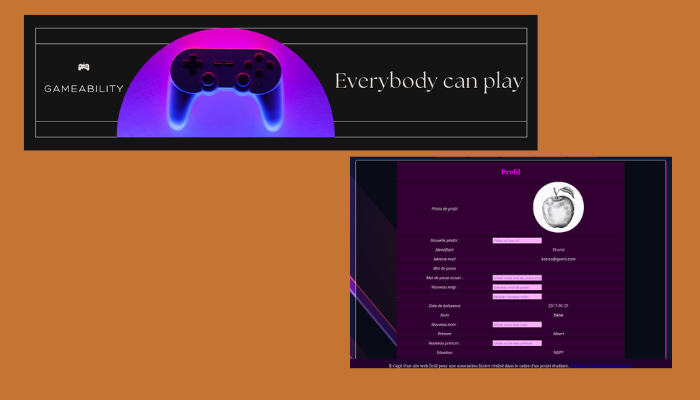
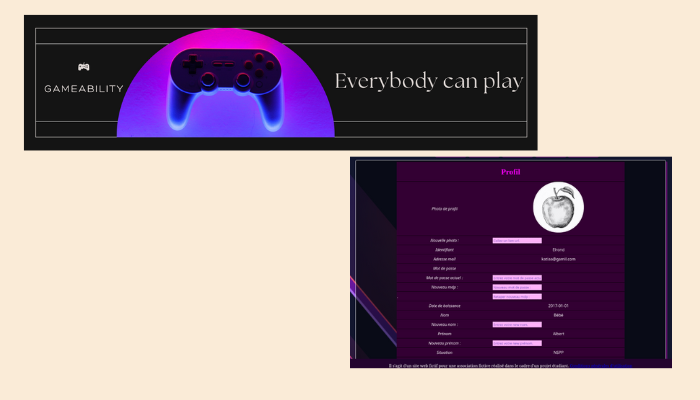
Update nav bar et page DonjonInfini.

diff --git a/projets/donjonInfini.html b/projets/donjonInfini.html
@@ -124,7 +124,12 @@
         </table>
     </div>
 
+    <div class="container">            
+        <img src="../img/projets/DonjonInfini/diagramme.png"></img>
 
+    </div>
+
+    <br>
     <div class=".container">
         <table class="tabcv2">
             <tr>
@@ -133,50 +138,39 @@
             <tr>
                 <td class="colcv">
                     <h5> Développeurs/Développeurses </h5>
-                    Elhaddad Nassim
+                    Elhaddad Nassim <a href="https://www.linkedin.com/in/nassim-el-haddad-4aa298271/"> <svg xmlns="http://www.w3.org/2000/svg" width="20" height="20" fill="currentColor" class="bi bi-linkedin" viewBox="0 0 20 20">
+                        <path d="M0 1.146C0 .513.526 0 1.175 0h13.65C15.474 0 16 .513 16 1.146v13.708c0 .633-.526 1.146-1.175 1.146H1.175C.526 16 0 15.487 0 14.854V1.146zm4.943 12.248V6.169H2.542v7.225h2.401zm-1.2-8.212c.837 0 1.358-.554 1.358-1.248-.015-.709-.52-1.248-1.342-1.248-.822 0-1.359.54-1.359 1.248 0 .694.521 1.248 1.327 1.248h.016zm4.908 8.212V9.359c0-.216.016-.432.08-.586.173-.431.568-.878 1.232-.878.869 0 1.216.662 1.216 1.634v3.865h2.401V9.25c0-2.22-1.184-3.252-2.764-3.252-1.274 0-1.845.7-2.165 1.193v.025h-.016a5.54 5.54 0 0 1 .016-.025V6.169h-2.4c.03.678 0 7.225 0 7.225h2.4z"/>
+                      </svg> </a> 
                     <br> Auxilien Katia
                     <h5> Liens et auteurs des sprites du jeu </h5>
                     <ul>
-                        <li>Dague provenant de l'asset "fantasy weapons" par YohkGames (https://yohkgames.itch.io/fantasy-weapons-pt2)
+                        <li>Dague provenant de l'asset <a href="https://yohkgames.itch.io/fantasy-weapons-pt2">"fantasy weapons" par YohkGames</a>
                         </li>
                         <li>
-                            EpeeLegendaire, Hache, Arme, Pieces, et Sac d'or provenant de l'asset "Shikashis fantasy icons pack" par cheekyinkling (https://cheekyinkling.itch.io/shikashis-fantasy-icons-pack)
+                            EpeeLegendaire, Hache, Arme, Pieces, et Sac d'or provenant de l'asset <a href="https://cheekyinkling.itch.io/shikashis-fantasy-icons-pack">"Shikashis fantasy icons pack" par cheekyinkling</a>
                         </li>
                         <li>
-                            Feu de camp de l'asset "Animated pixel campfire" par SMStudios (https://simon-develop.itch.io/2d-campfire-free)
+                            Feu de camp de l'asset <a href="https://simon-develop.itch.io/2d-campfire-free">"Animated pixel campfire" par SMStudios</a>
                         </li>
                         <li>
-                            Hero provenant de l'asset Fantasy Knight de aamatniekss (https://aamatniekss.itch.io/fantasy-knight-free-pixelart-animated-character)
+                            Hero provenant de l'asset <a href="https://aamatniekss.itch.io/fantasy-knight-free-pixelart-animated-character"> Fantasy Knight de aamatniekss</a>
                         </li>
                         <li>
-                            Chef des abysses provenant de l'asset EVil Wizard 2 par LuizMelo (https://luizmelo.itch.io/evil-wizard-2)
+                            Chef des abysses provenant de l'asset <a href="https://luizmelo.itch.io/evil-wizard-2">EVil Wizard 2 par LuizMelo </a>
                         </li>
                         <li>
-                            Gloculaire, Gobelin et Squelette provenant de l'asset "Monsters creatures fantasy" par LuizMelo (https://luizmelo.itch.io/monsters-creatures-fantasy)
+                            Gloculaire, Gobelin et Squelette provenant de l'asset <a href="https://luizmelo.itch.io/monsters-creatures-fantasy">"Monsters creatures fantasy" par LuizMelo</a>
                         </li>
                         <li>
-                            Potion provenant de l'asset "Animated Potion Assets Pack" par Flip (https://flippurgatory.itch.io/animated-potion-assets-pack-free?download)
+                            Potion provenant de l'asset <a href="https://flippurgatory.itch.io/animated-potion-assets-pack-free?download">"Animated Potion Assets Pack" par Flip</a> 
                         </li>
                         <li>
-                            Fond du menu par The Outlander https://the-outlander.itch.io/free-dungeon-backgrounds 
+                            Fond du menu par <a href="https://the-outlander.itch.io/free-dungeon-backgrounds ">The Outlander</a> 
                         </li>
                     </ul>
 
                     <h5>Musique</h5> 
-
-                    "Magic Escape Room"
-
-                    <br> Instruments : Harp, Bassoon, Flutes, Celesta, Percussion, Oboe, Timpani, Cellos, Basses, Xylophone, Glockenspiel, Violins, Violas, French Horns, Trombones, Tuba, Pipe Organ, Clock Tower, Chimes, Church Bell
-
-                    <br> Feel : Driving, Grooving, Bouncy
-
-                    <br> This pieces builds tension and speed all the time. The ramp-up starts slowly, and gets pretty crazy by the end. Like you're solving puzzles in a... Magical Escape Room! There are several natural break-points for easy editing. If you look at the instrument list, you can see where this piece is going.
-
-                    <br> ISRC: USUAN2200005
-                    <br> Uploaded: 2022-11-03
-
-                    (https://incompetech.com/music/royalty-free/music.html?source=codeur-com-blog&utm_source=codeur-com-blog)
-
+                    <a href="https://incompetech.com/music/royalty-free/music.html?source=codeur-com-blog&utm_source=codeur-com-blog">"Magic Escape Room" </a>
                 </td>
             </tr>
         </table>

diff --git a/projets.html b/projets.html
@@ -64,14 +64,14 @@
             <div class="carousel-inner">
                 <div class="carousel-item active">
                     <a href="projets/bataillenavale.html"><img src="img/projets/build.png"  class="d-block w-100" alt="Projet 1"></a>
-                    <div class="carousel-caption">
+                    <div style="color: black;    font-family: 'Courier New', Courier, monospace;" class="carousel-caption">
                         <h3>Bataille navale</h3>
                         <p>Projet de BUT informatique, développé en C.</p>
                     </div>
                 </div>
                 <div class="carousel-item">
                     <a href="projets/posteClient.html"><img src="img/projets/PosteArchWin/couverture.png"  class="d-block w-100" alt="Projet 2"></a>
-                    <div class="carousel-caption">
+                    <div style="color: black;    font-family: 'Courier New', Courier, monospace;" class="carousel-caption">
                         <h3>Installation d'un poste client.</h3>
                         <p>Projet de BUT informatique, installation d'un poste dualboot Archlinux/Windows, et de ssh ???</p>
                     </div>
@@ -79,7 +79,7 @@
                 <div class="carousel-item">
                     <a href="projets/donjonInfini.html">
                     <img src="img/projets/DonjonInfini/Couverture.png" class="d-block w-100"  alt="Projet 3"></a>
-                    <div class="carousel-caption">
+                    <div style="color: black;    font-family: 'Courier New', Courier, monospace;" class="carousel-caption">
                         <h3>Donjon infini</h3>
                         <p>Projet de BUT informatique, développement en java.</p>
                     </div>
@@ -87,7 +87,7 @@
                 <div class="carousel-item">
                     <a href="projets/sitewebfictifAssociation.html">
                     <img src="img/projets/siteWebAssoFictif/couverture.png" class="d-block w-100"  alt="Projet 4"></a>
-                    <div class="carousel-caption">
+                    <div style="color: black;    font-family: 'Courier New', Courier, monospace;" class="carousel-caption">
                         <h3>GameAbility</h3>
                         <p>Projet de BUT informatique, développement d'un site web dynamique (PHP,HTML/CSS,SQL) d'une association fictive.</p>
                     </div>
@@ -95,7 +95,7 @@
                 <div class="carousel-item">
                     <a href="projets/plucheSiteEcommerceFictif.html">
                     <img src="img/projets/build.png" class="d-block w-100"  alt="Projet 5"></a>
-                    <div class="carousel-caption">
+                    <div style="color: black;    font-family: 'Courier New', Courier, monospace;" class="carousel-caption">
                         <h3>Pluche</h3>
                         <p>Projet de BUT informatique, développement d'un site web dynamique (PHP,HTML/CSS,SQL) d'ecommerce fictif.</p>
                     </div>
@@ -103,7 +103,7 @@
                 <div class="carousel-item">
                     <a href="projets/encheres.html">
                     <img src="img/projets/build.png" class="d-block w-100"  alt="Projet 6"></a>
-                    <div class="carousel-caption">
+                    <div style="color: black;    font-family: 'Courier New', Courier, monospace;" class="carousel-caption">
                         <h3>Enchères</h3>
                         <p>Projet de BUT informatique, développement d'une application d'enchères sécurisées en java.</p>
                     </div>
@@ -111,7 +111,7 @@
                 <div class="carousel-item">
                     <a href="projets/appOrganisation.html">
                     <img src="img/projets/build.png" class="d-block w-100" alt="Projet 7"></a>
-                    <div class="carousel-caption">
+                    <div style="color: black;    font-family: 'Courier New', Courier, monospace;" class="carousel-caption">
                         <h3> ? </h3>
                         <p>Projet personnel : application d'organisation en java.</p>
                     </div>

diff --git a/contact.html b/contact.html
@@ -18,7 +18,7 @@
             <!-- <img id="banniere" src="images/medicale-banniere.jpg" alt="banniere medicale"> -->
             <p>
                     <!-- Image and text -->
-                <nav class="espace navbar fixed-top navbar-expand-lg navbar-light">
+                <nav class="navColor espace navbar fixed-top navbar-expand-lg">
                     <!-- bg-light  -->
                     <a class="navbar-brand gauche" href="#">
                         <img src="img/monlogo.png" width="30" height="30" class="d-inline-block align-top" alt="">

diff --git a/css/style.css b/css/style.css
@@ -1,8 +1,10 @@
 /*Test*/
 
     /*Entête*/
-header{
-    background-color:floralwhite;
+.navColor{
+
+    background: rgb(209,96,37);
+    background: linear-gradient(90deg, rgba(209,96,37,1) 4%, rgba(218,110,43,1) 10%, rgba(244,208,171,1) 32%, rgba(244,210,174,1) 44%, rgba(245,214,179,1) 54%, rgba(250,235,215,1) 84%, rgba(253,247,239,1) 99%); 
 }
 
 .droite{
